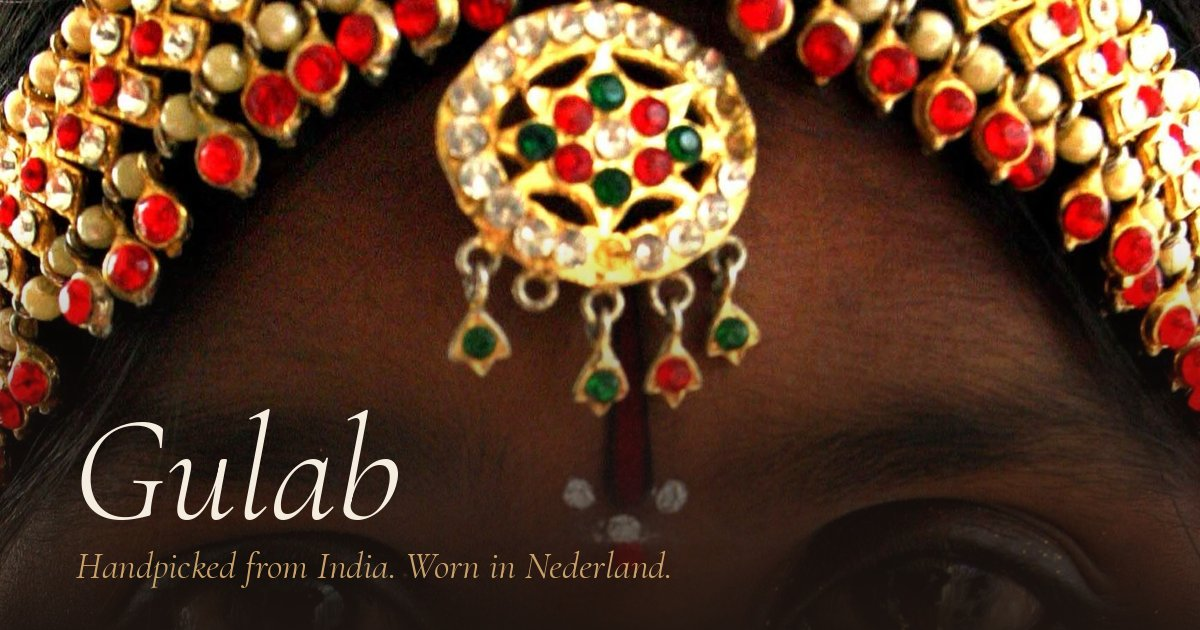
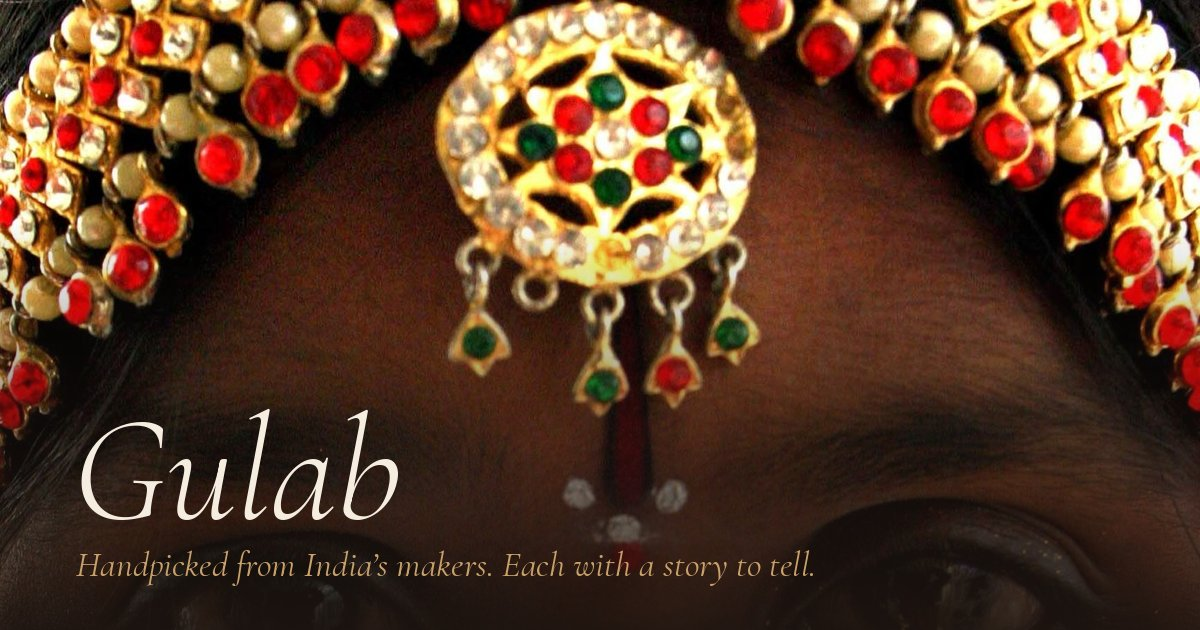
Copy: multi-category and EU-wide throughout
- New tagline "Handpicked from India's makers. Each with a story to tell."
  (hero, OG image + alt, titles, BRIEF)
- Drop Netherlands/Nederland from meta, JSON-LD and footers
- Collection intro and shipping step reworded
- Prices formatted en-IE (EUR25) for an English, EU-wide audience

Claude-Session: https://claude.ai/code/session_01VejTNGVLwT55BJAHR4n8Ec

Changed region(s): [[0.0617, 0.8746, 0.6783, 0.9349]]

diff --git a/index.html b/index.html
@@ -3,24 +3,24 @@
 <head>
   <meta charset="UTF-8">
   <meta name="viewport" content="width=device-width, initial-scale=1.0">
-  <title>Gulab — Handpicked from India, in Nederland</title>
-  <meta name="description" content="Jewellery, textiles and steel lunchboxes, handpicked in India by Roos. Based in the Netherlands, shipping across the EU.">
+  <title>Gulab — Handpicked from India’s Makers</title>
+  <meta name="description" content="Jewellery, textiles and steel lunchboxes, handpicked from makers across India. Small batches, each with a story. Shipping across the EU.">
   <meta name="theme-color" content="#1C1410">
 
   <!-- Social sharing -->
   <meta property="og:type" content="website">
   <meta property="og:site_name" content="Gulab">
-  <meta property="og:title" content="Gulab — Handpicked from India">
-  <meta property="og:description" content="Jewellery, textiles and lunchboxes, handpicked in India. Shipping across the EU.">
+  <meta property="og:title" content="Gulab — Handpicked from India’s Makers">
+  <meta property="og:description" content="Jewellery, textiles and lunchboxes, handpicked from makers across India. Shipping across the EU.">
   <meta property="og:url" content="https://mirrrad.github.io/gulab/">
   <meta property="og:image" content="https://mirrrad.github.io/gulab/assets/og-image.jpg">
   <meta property="og:image:width" content="1200">
   <meta property="og:image:height" content="630">
-  <meta property="og:image:alt" content="Gulab — Handpicked from India. Worn in Nederland.">
+  <meta property="og:image:alt" content="Gulab — Handpicked from India’s makers. Each with a story to tell.">
   <meta property="og:locale" content="en_GB">
   <meta name="twitter:card" content="summary_large_image">
-  <meta name="twitter:title" content="Gulab — Handpicked from India">
-  <meta name="twitter:description" content="Jewellery, textiles and lunchboxes, handpicked in India. Shipping across the EU.">
+  <meta name="twitter:title" content="Gulab — Handpicked from India’s Makers">
+  <meta name="twitter:description" content="Jewellery, textiles and lunchboxes, handpicked from makers across India. Shipping across the EU.">
   <meta name="twitter:image" content="https://mirrrad.github.io/gulab/assets/og-image.jpg">
 
   <!-- Icons -->
@@ -37,7 +37,7 @@
     "alternateName": "गुलाब",
     "url": "https://mirrrad.github.io/gulab/",
     "logo": "https://mirrrad.github.io/gulab/assets/icon-512.png",
-    "description": "Jewellery, textiles and lunchboxes handpicked in India. Based in the Netherlands, shipping across the EU.",
+    "description": "Jewellery, textiles and steel lunchboxes, handpicked from makers across India. Small batches, each with a story. Shipping across the EU.",
     "areaServed": "EU",
     "sameAs": [
       "https://www.instagram.com/lijkesnijer",
@@ -104,7 +104,7 @@
       <div class="hero-content">
         <p class="hero-eyebrow">Jewellery · Textiles · Lunchboxes</p>
         <h1 class="hero-title">Gulab</h1>
-        <p class="hero-tagline">Handpicked from India.<br>Worn in Nederland.</p>
+        <p class="hero-tagline">Handpicked from India’s makers.<br>Each with a story to tell.</p>
         <div class="hero-actions">
           <a href="#collection" class="btn-primary">
             Discover the collection
@@ -128,7 +128,7 @@
       <div class="collection-header">
         <p class="section-eyebrow">Shop by category</p>
         <h2 class="section-heading" id="collection-heading">The collection</h2>
-        <p class="section-sub">Each piece is handpicked in India — limited quantities, always rotating.</p>
+        <p class="section-sub">Handmade and small-batch pieces, chosen directly from makers across India. Limited quantities, always rotating.</p>
       </div>
 
       <div class="category-grid">
@@ -208,7 +208,7 @@
         <div class="how-step">
           <div class="how-number" aria-hidden="true">03</div>
           <h3 class="how-title">Receive your piece</h3>
-          <p class="how-desc">Every piece is carefully packaged and sent with care, anywhere in the EU.</p>
+          <p class="how-desc">Every piece is wrapped with care and shipped to your door, anywhere in the EU.</p>
           <p class="how-note">Shipping across the EU</p>
         </div>
 
@@ -304,7 +304,7 @@
       <a href="https://www.instagram.com/lijkesnijer" target="_blank" rel="noopener">Instagram</a>
       <a href="https://www.vinted.nl/member/27795555-roos123456" target="_blank" rel="noopener">Vinted</a>
     </div>
-    <div class="footer-meta">© <span id="year"></span> Gulab · Handpicked from India · Nederland</div>
+    <div class="footer-meta">© <span id="year"></span> Gulab · Handpicked from India · Shipping across the EU</div>
   </footer>
 
   <script src="assets/js/site.js" defer></script>

diff --git a/category.html b/category.html
@@ -4,13 +4,13 @@
   <meta charset="UTF-8">
   <meta name="viewport" content="width=device-width, initial-scale=1.0">
   <title>Shop — Gulab</title>
-  <meta name="description" content="Browse Gulab's current pieces — jewellery, textiles and lunchboxes handpicked in India, shipping across the EU.">
+  <meta name="description" content="Browse Gulab’s current pieces: jewellery, textiles and lunchboxes, handpicked from makers across India. Shipping across the EU.">
   <meta name="theme-color" content="#1C1410">
 
   <meta property="og:type" content="website">
   <meta property="og:site_name" content="Gulab">
-  <meta property="og:title" content="Gulab — Handpicked from India">
-  <meta property="og:description" content="Jewellery, textiles and lunchboxes, handpicked in India. Shipping across the EU.">
+  <meta property="og:title" content="Gulab — Handpicked from India’s Makers">
+  <meta property="og:description" content="Jewellery, textiles and lunchboxes, handpicked from makers across India. Shipping across the EU.">
   <meta property="og:image" content="https://mirrrad.github.io/gulab/assets/og-image.jpg">
   <meta property="og:image:width" content="1200">
   <meta property="og:image:height" content="630">
@@ -91,7 +91,7 @@
       <a href="https://www.instagram.com/lijkesnijer" target="_blank" rel="noopener">Instagram</a>
       <a href="https://www.vinted.nl/member/27795555-roos123456" target="_blank" rel="noopener">Vinted</a>
     </div>
-    <div class="footer-meta">© <span id="year"></span> Gulab · Handpicked from India · Nederland</div>
+    <div class="footer-meta">© <span id="year"></span> Gulab · Handpicked from India · Shipping across the EU</div>
   </footer>
 
   <script src="assets/js/site.js" defer></script>

diff --git a/assets/js/shop.js b/assets/js/shop.js
@@ -18,7 +18,7 @@
       '</picture>';
   }
 
-  var euro = new Intl.NumberFormat('nl-NL', { style: 'currency', currency: 'EUR', minimumFractionDigits: 0, maximumFractionDigits: 2 });
+  var euro = new Intl.NumberFormat('en-IE', { style: 'currency', currency: 'EUR', minimumFractionDigits: 0, maximumFractionDigits: 2 });
   function priceHtml(item) {
     if (item.price == null || item.price === '') return '';
     return '<p class="piece-price">' + esc(euro.format(item.price)) +

diff --git a/BRIEF.md b/BRIEF.md
@@ -76,7 +76,7 @@ Create a **brand presence / landing page** whose job is:
 | Body font | Inter | Clean, readable |
 
 **Feel:** Warm luxury. Not cold minimalism. Rich, intimate, handcrafted.
-**Tagline:** *"Handpicked from India. Worn in Nederland."*
+**Tagline:** *"Handpicked from India’s makers. Each with a story to tell."* (was "…Worn in Nederland." — changed Oct 2026: multi-category, EU-wide)
 
 ---
 
